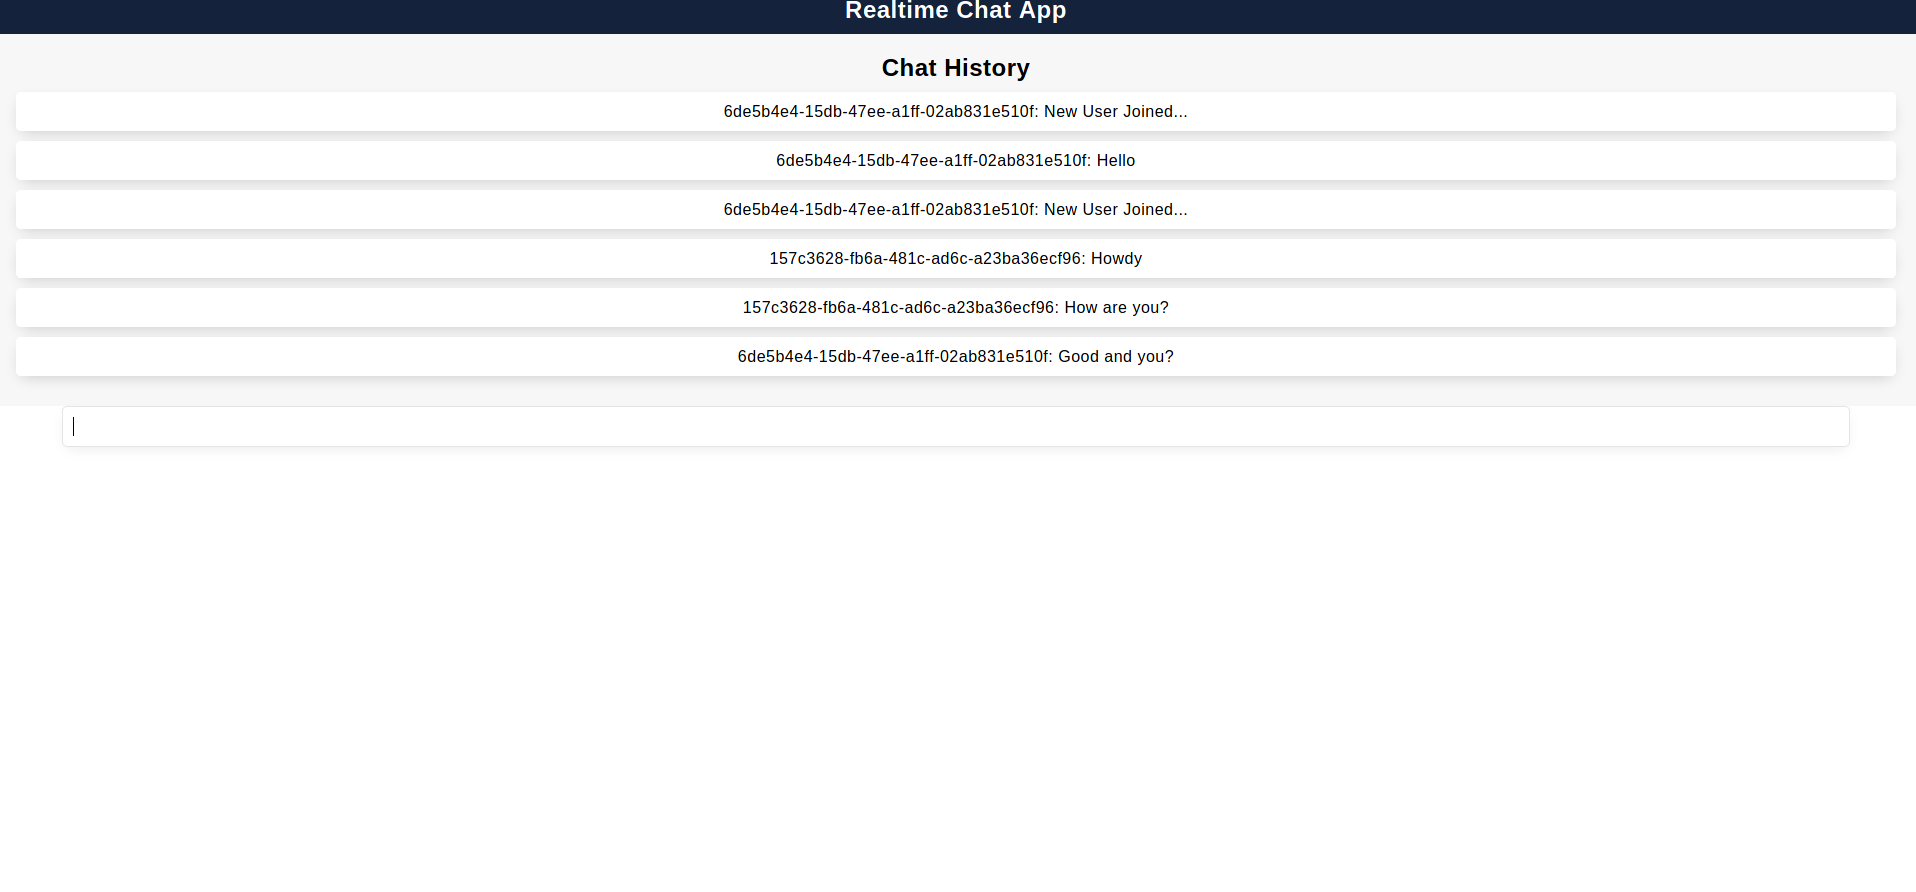
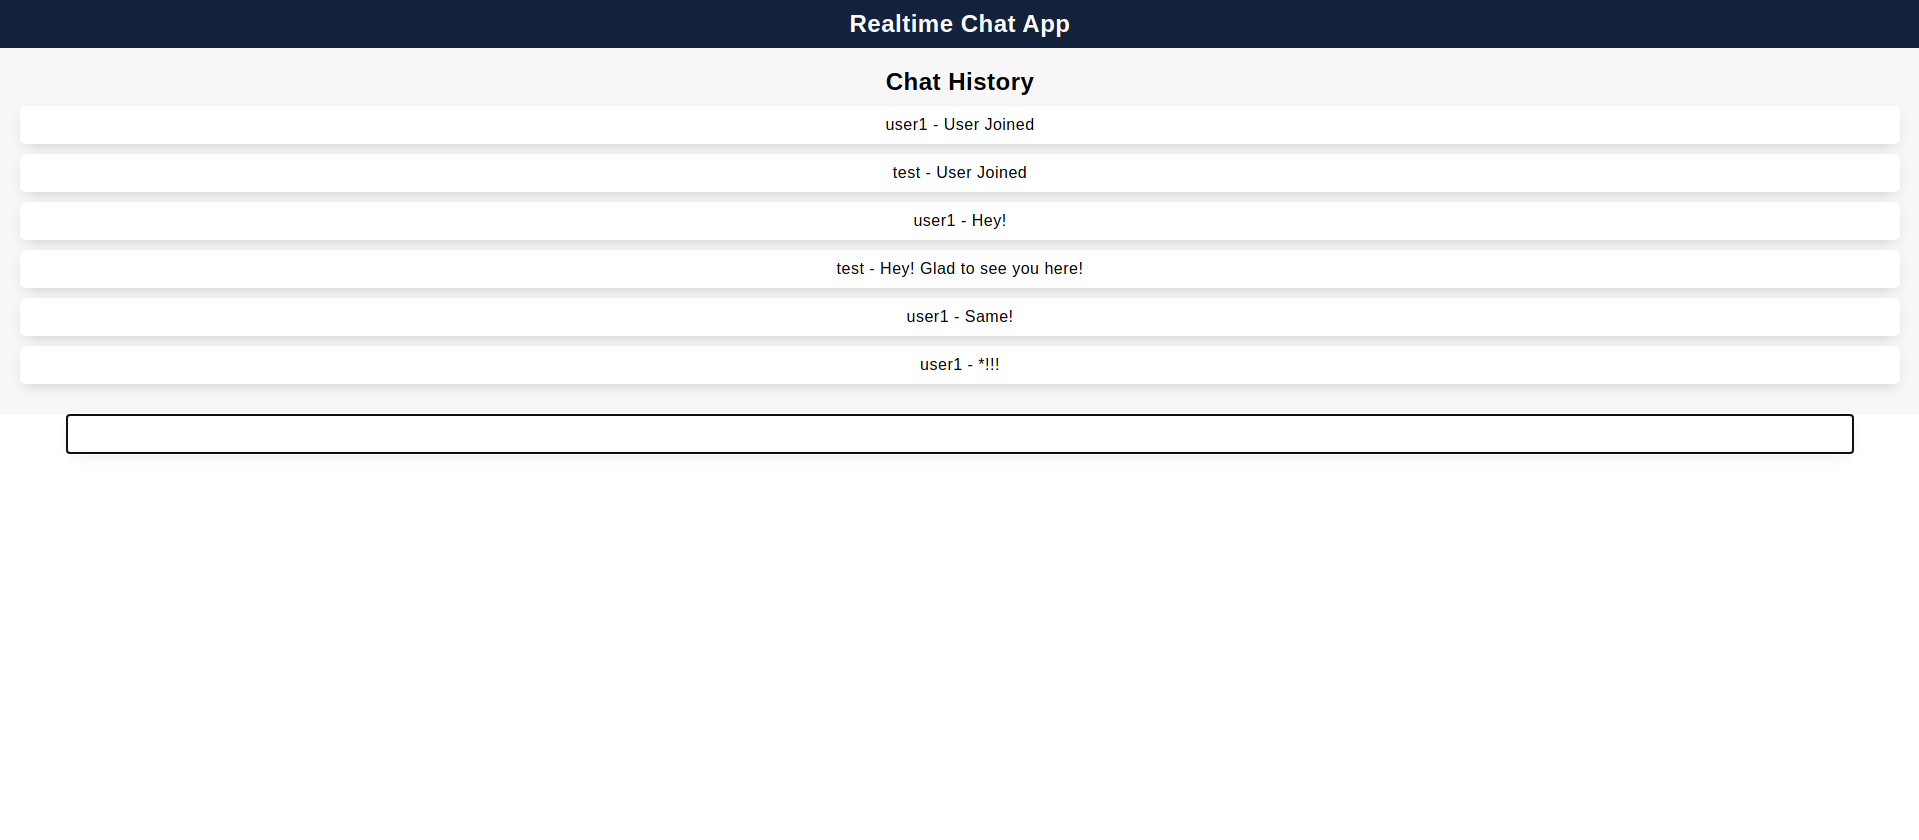
Updated Status Messages for chat

Changed region(s): [[0.0, 0.0, 1.0, 0.4643]]

diff --git a/backend/pkg/websocket/pool.go b/backend/pkg/websocket/pool.go
@@ -24,16 +24,18 @@ func (pool *Pool) Start() {
         case client := <-pool.Register:
             // When User Connects, a message is sent out from admin machine
             pool.Clients[client] = true
+            username := client.UserName
             fmt.Println("Size of Connection Pool: ", len(pool.Clients))
             for client, _ := range pool.Clients {
-                client.Conn.WriteJSON(Message{Type: 1, User: client.UserName, Body: "User Joined"})
+                client.Conn.WriteJSON(Message{Type: 1, User: username, Body: "User Joined"})
             }
             break
         case client := <-pool.Unregister:
+            username := client.UserName
             delete(pool.Clients, client)
             fmt.Println("Size of Connection Pool: ", len(pool.Clients))
             for client, _ := range pool.Clients {
-                client.Conn.WriteJSON(Message{Type: 1, User: client.UserName, Body: "User Disconnected..."})
+                client.Conn.WriteJSON(Message{Type: 1, User: username, Body: "User Disconnected"})
             }
             break
         case message := <-pool.Broadcast:
